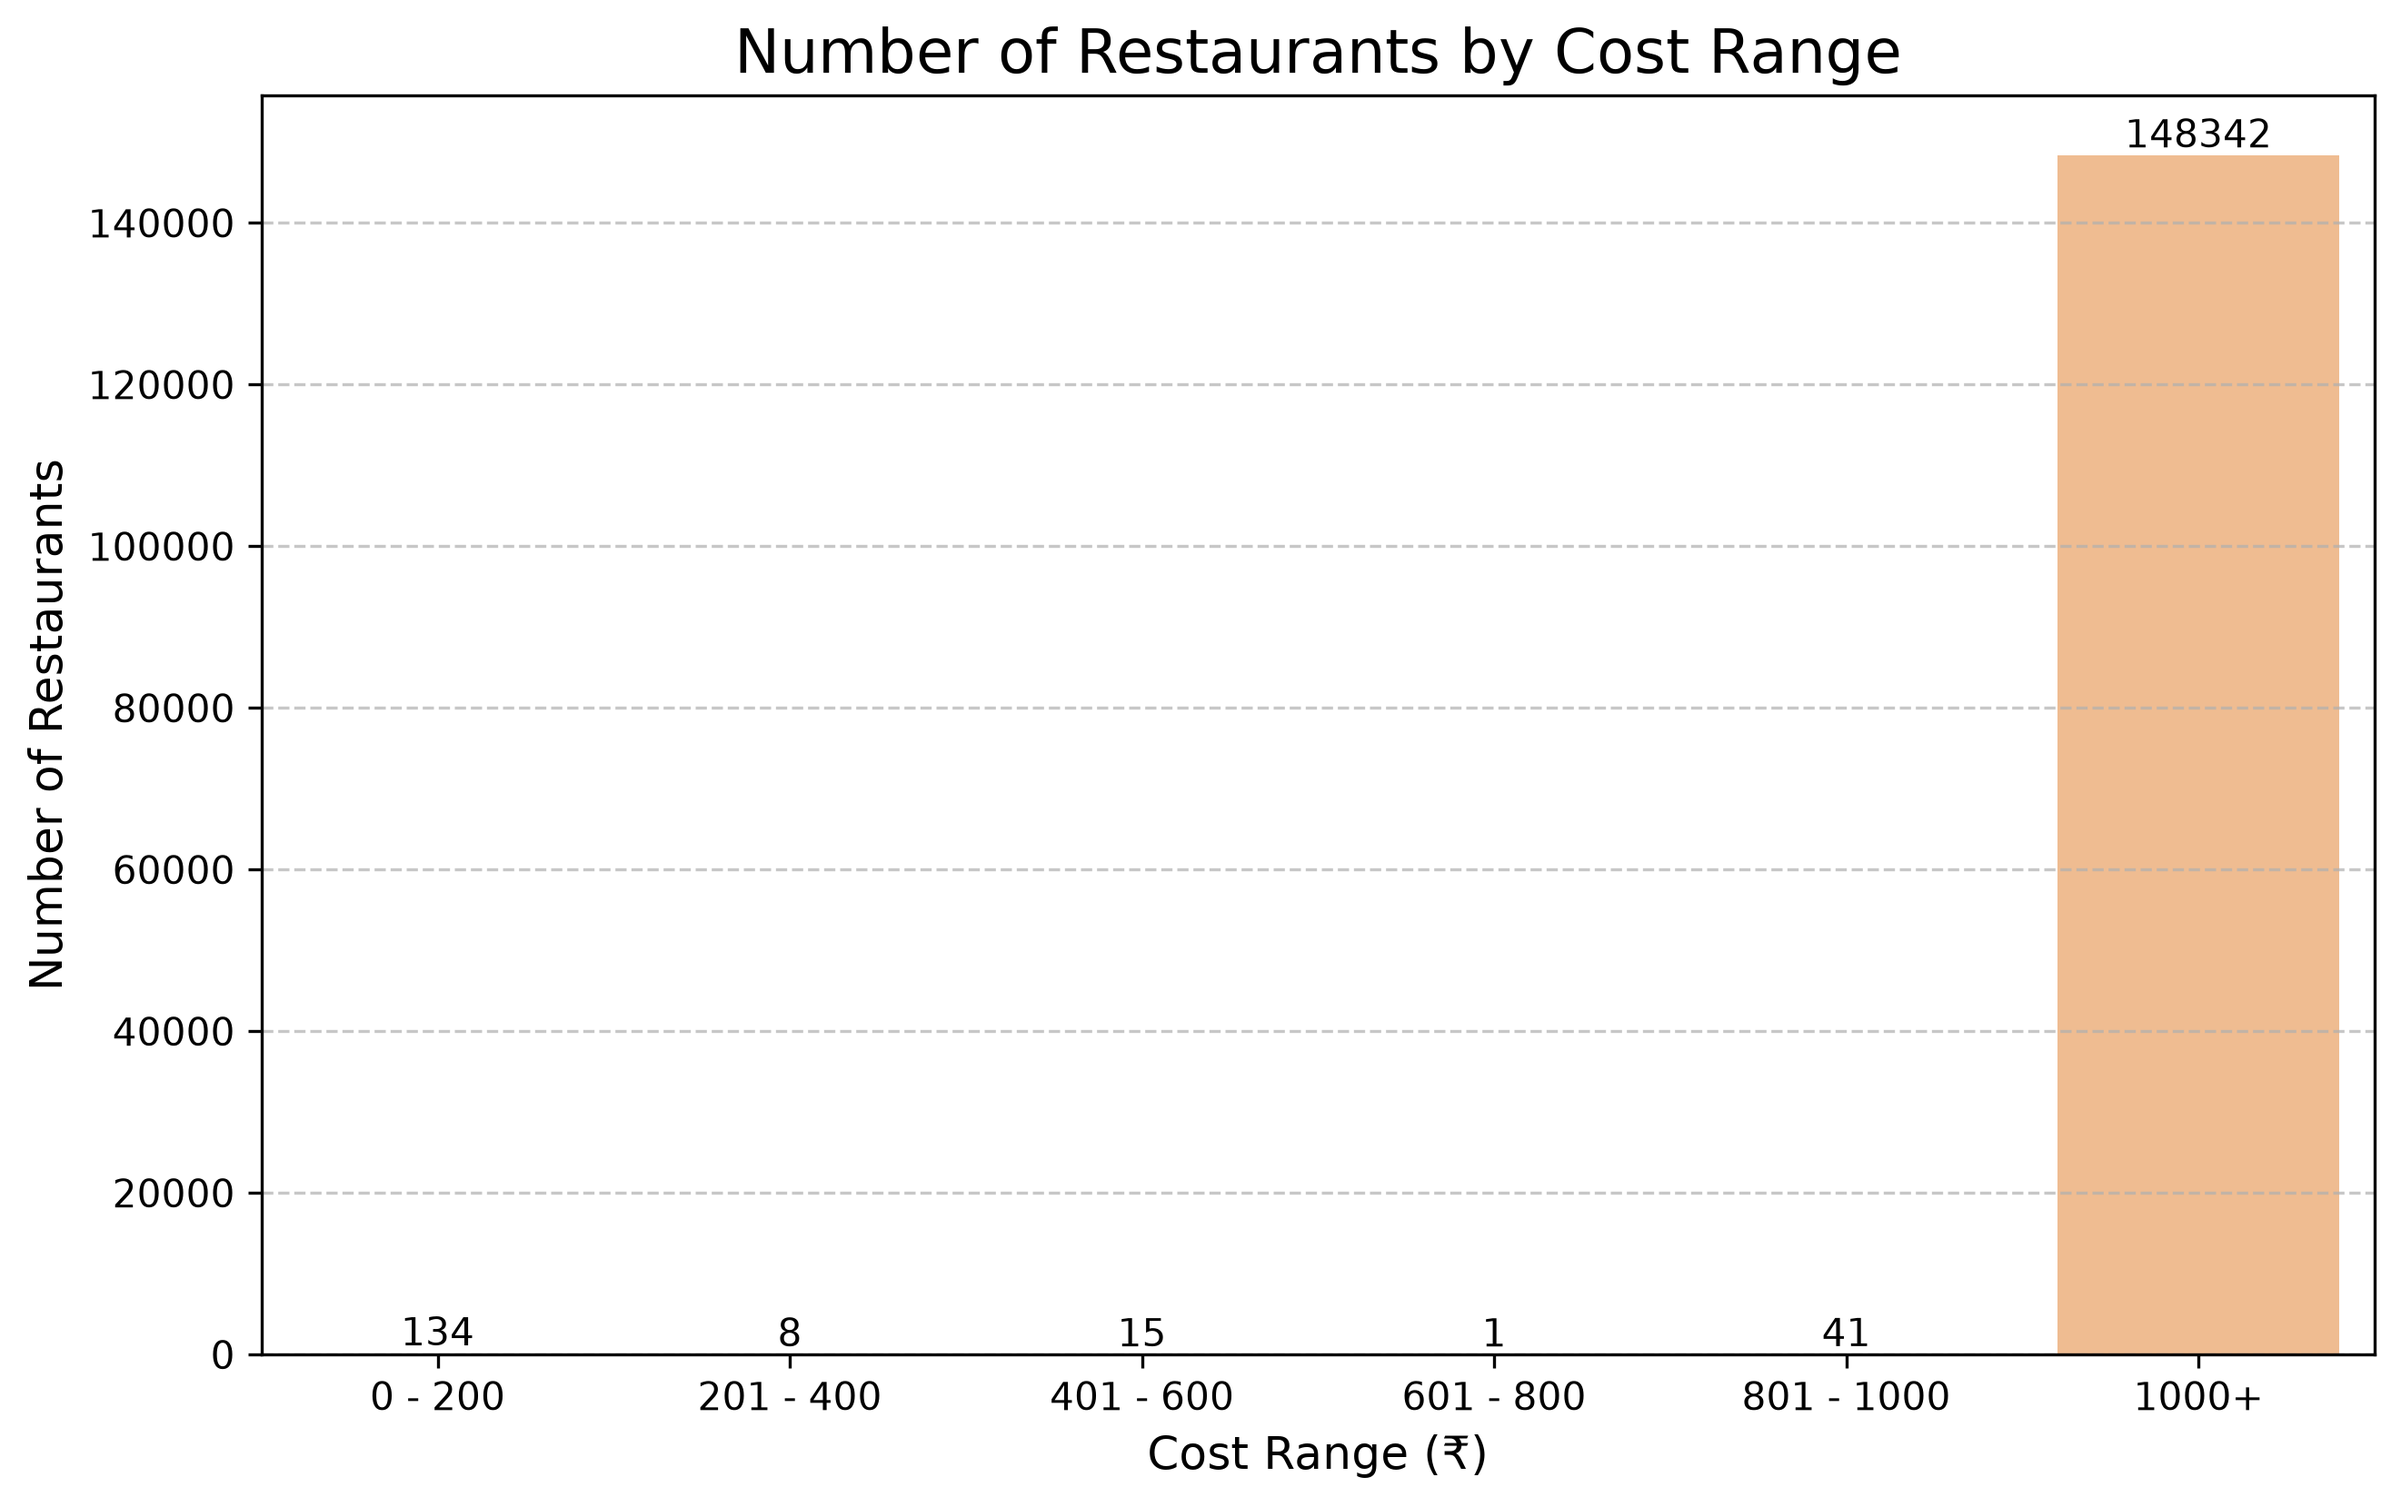
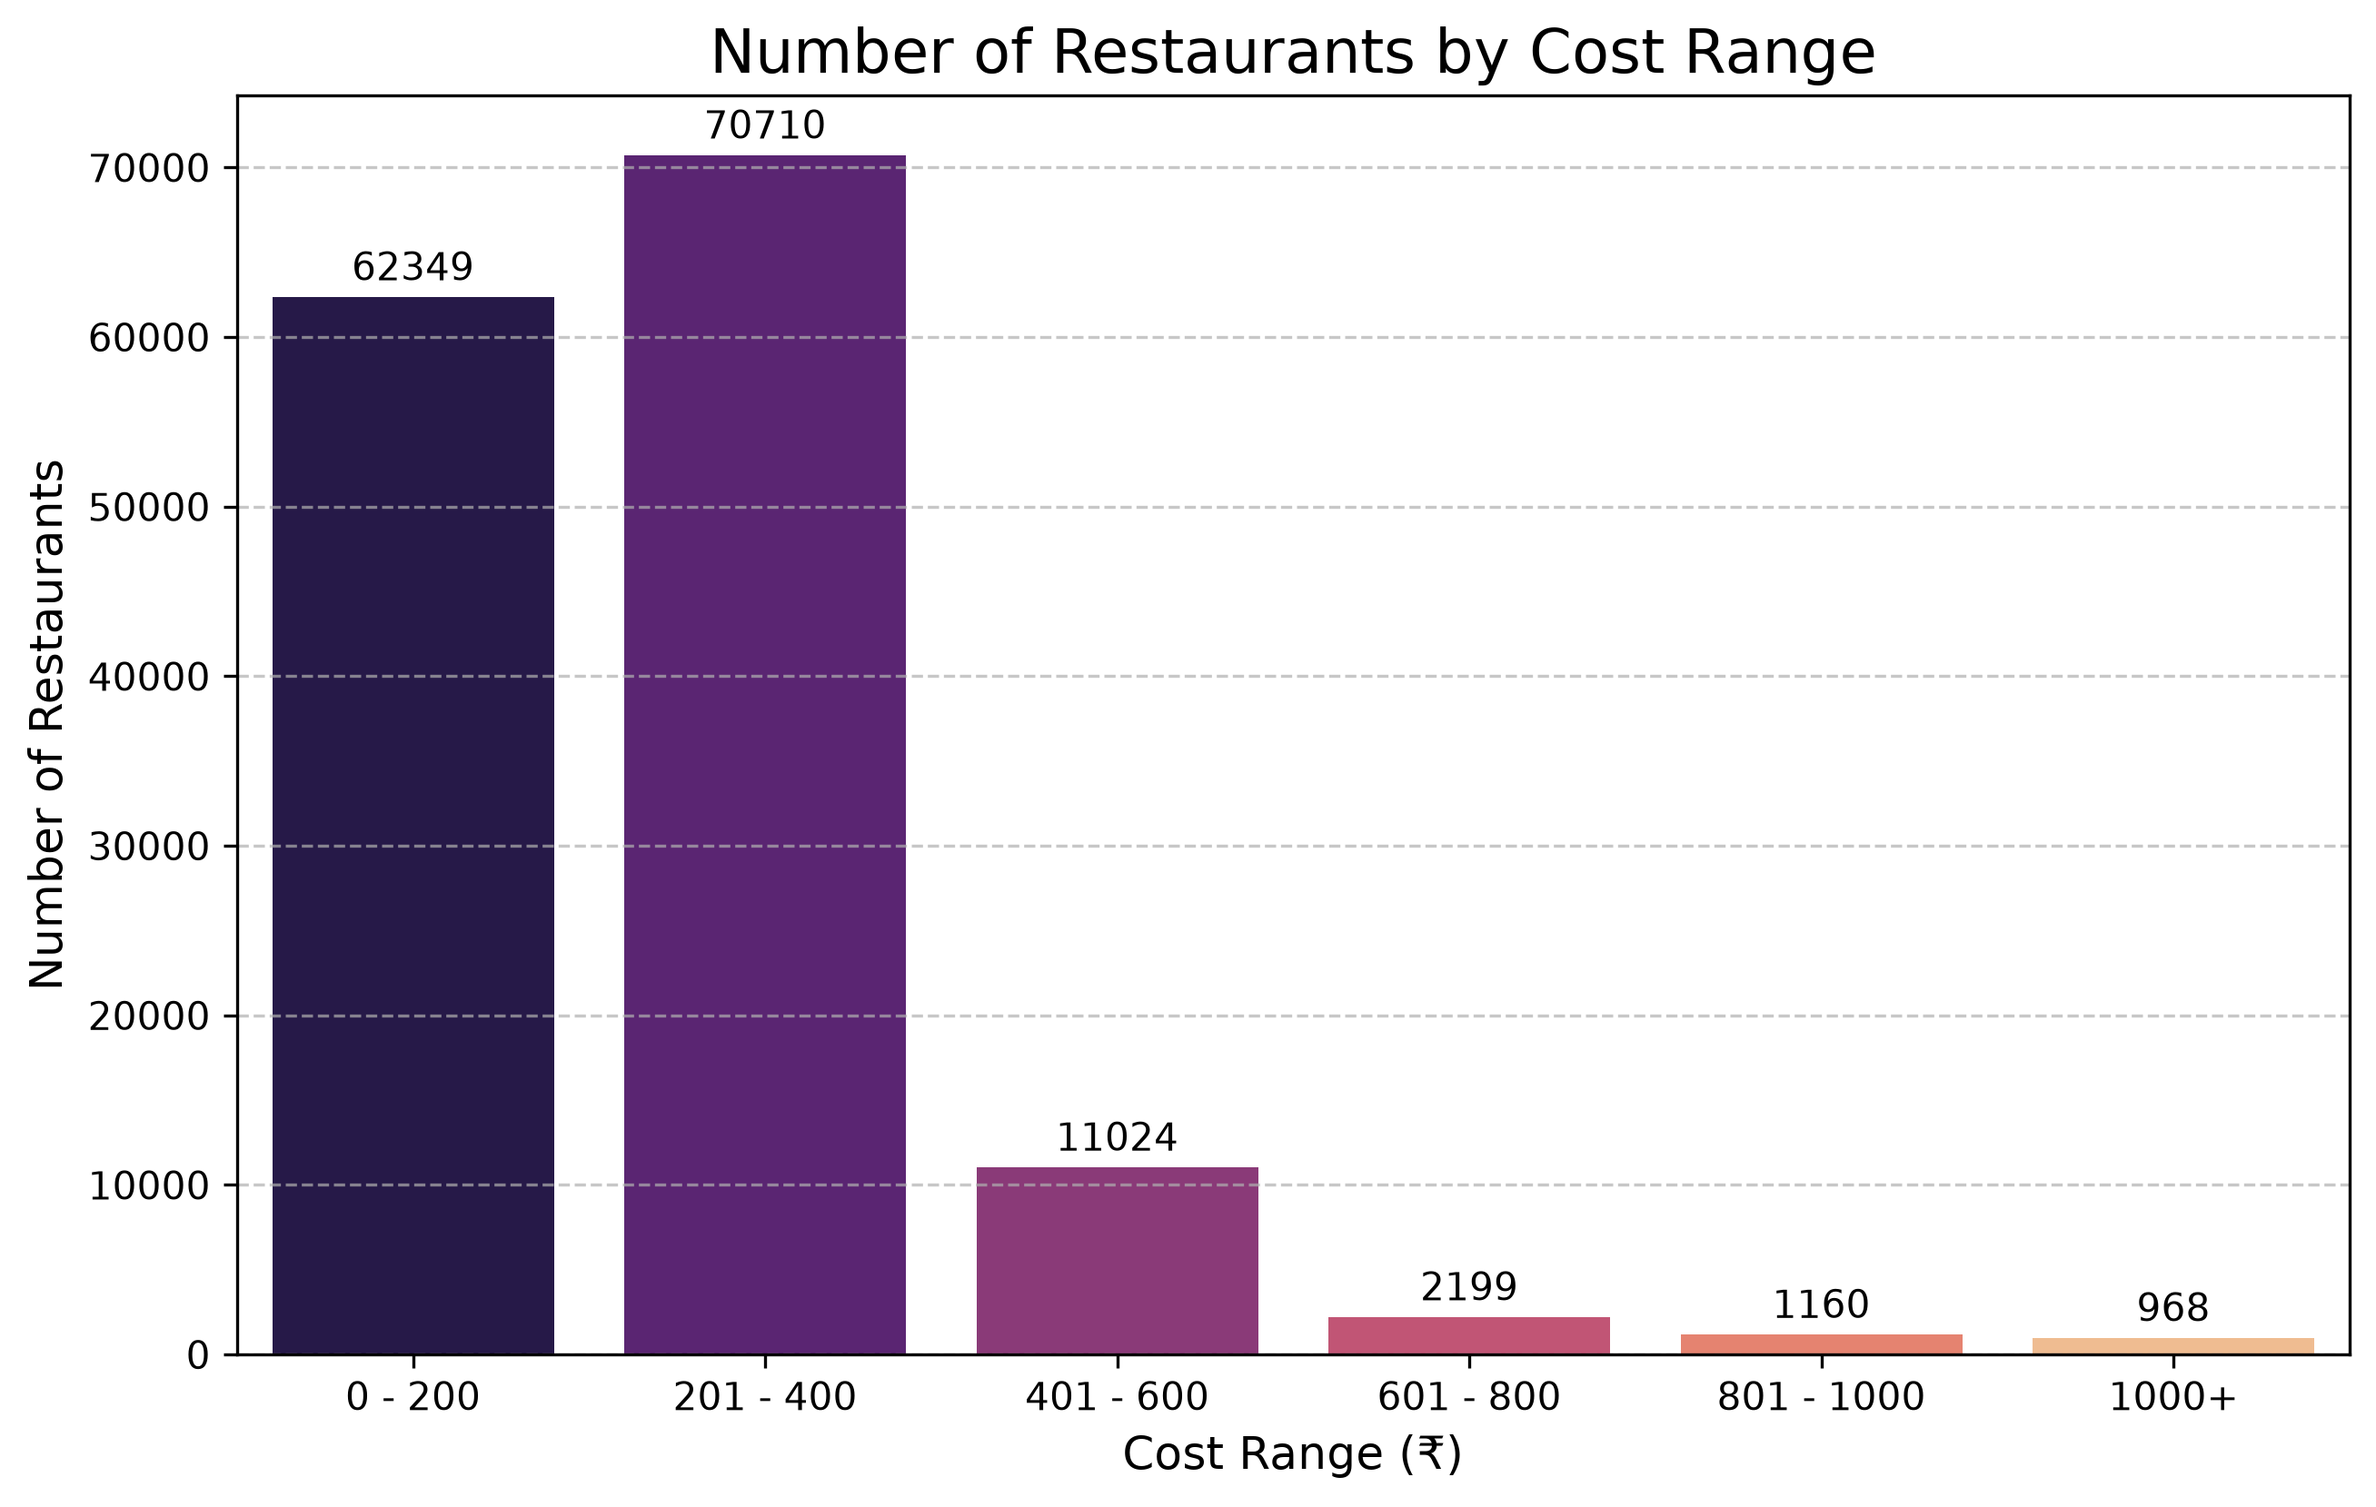
Glitches fixed

diff --git a/src/data_cleaning.py b/src/data_cleaning.py
@@ -16,9 +16,14 @@ def clean_rating_count(df,col_name='rating_count'):
         df[col_name] = df[col_name].astype(str).str.extract(r'(\d+)').astype(float)
     return df
 def cost_str_to_float(df, column='cost'):
-    if column in df:
-        # \D matches any character that is NOT a digit. We replace them with nothing.
-        df[column] = df[column].astype(str).str.replace(r'\D', '', regex=True)
-        # Convert to float (using pd.to_numeric handles empty strings better)
-        df[column] = pd.to_numeric(df[column], errors='coerce')
+    if column in df.columns:
+        # 1. Extract the first valid number sequence (e.g., '250' from '₹250 FOR 2' or '1,250')
+        extracted_str = df[column].astype(str).str.extract(r'([\d,]+)', expand=False)
+        
+        # 2. Remove commas from the extracted string
+        clean_str = extracted_str.str.replace(',', '', regex=False)
+        
+        # 3. Convert to float, coercing any remaining errors to NaN
+        df[column] = pd.to_numeric(clean_str, errors='coerce')
+        
     return df
